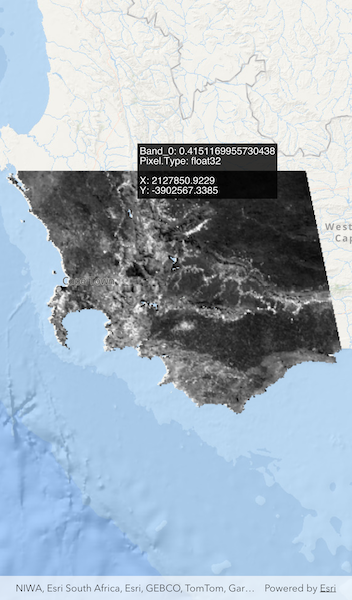
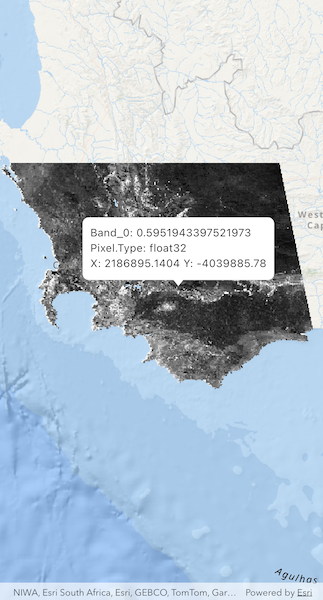
Update the sample using callout

diff --git a/lib/samples/identify_raster_cell/identify_raster_cell.dart b/lib/samples/identify_raster_cell/identify_raster_cell.dart
@@ -33,10 +33,6 @@ class _IdentifyRasterCellState extends State<IdentifyRasterCell>
   var _ready = false;
   // Raster layer to display raster data on the map.
   late RasterLayer _rasterLayer;
-  // Graphic to get the raster cell information.
-  final Graphic _textGraphic = Graphic();
-  // Graphics overlay to display the text graphic.
-  final _textGraphicsOverlay = GraphicsOverlay();
 
   @override
   Widget build(BuildContext context) {
@@ -67,10 +63,6 @@ class _IdentifyRasterCellState extends State<IdentifyRasterCell>
     if (_rasterLayer.fullExtent != null) {
       await _mapViewController.setViewpointGeometry(_rasterLayer.fullExtent!);
     }
-    // Add the text graphic to the text graphics overlay.
-    _textGraphicsOverlay.graphics.add(_textGraphic);
-    // Add the text graphics overlay to the map view.
-    _mapViewController.graphicsOverlays.add(_textGraphicsOverlay);
     // Set the ready state variable to true to enable the sample UI.
     setState(() => _ready = true);
   }
@@ -96,22 +88,21 @@ class _IdentifyRasterCellState extends State<IdentifyRasterCell>
         final x = cell.geometry!.extent.xMin;
         final y = cell.geometry!.extent.yMin;
         // Add the x & y coordinates where the user clicked raster cell to the string buffer.
-        stringBuffer.writeln();
-        stringBuffer.writeln('X: ${x.toStringAsFixed(4)}');
-        stringBuffer.write('Y: ${y.toStringAsFixed(4)}');
-
-        final textSymbol = TextSymbol(
-          color: Colors.white,
-          size: 12,
-          text: stringBuffer.toString(),
-          horizontalAlignment: HorizontalAlignment.left,
+        stringBuffer.write(
+          'X: ${x.toStringAsFixed(4)} Y: ${y.toStringAsFixed(4)}',
         );
-        textSymbol.backgroundColor = Colors.black.withValues(alpha: 0.8);
-        _textGraphic.geometry = cell.geometry;
-        _textGraphicsOverlay.renderer = SimpleRenderer(symbol: textSymbol);
+
+        _mapViewController.callout.showCalloutForGeoElement(
+          cell,
+          contentBuilder: (context, geoElement) => IntrinsicWidth(
+            child: Container(
+              padding: const EdgeInsets.all(6),
+              color: Colors.white,
+              child: Text(stringBuffer.toString(), softWrap: false),
+            ),
+          ),
+        );
       }
-    } else {
-      _textGraphicsOverlay.renderer = null;
     }
   }
 

diff --git a/lib/samples/identify_raster_cell/README.md b/lib/samples/identify_raster_cell/README.md
@@ -18,7 +18,7 @@ Tap an area of the raster to identify it and see the raw raster cell information
 2. On tap:
   * Call `ArcGISMapViewController.identifyLayer(...)` passing in the screen point, tolerance, and maximum number of results per layer.
   * Await the result of the identify and then get the `GeoElement` from the layer result.
-  * Create a `SimpleRenderer` at the calculated map point and populate the content with text from the `GeoElement.attributes`.
+  * Create a callout at the calculated map point and populate the callout content with text from the RasterCell attributes.
 
 ## Relevant API
 
